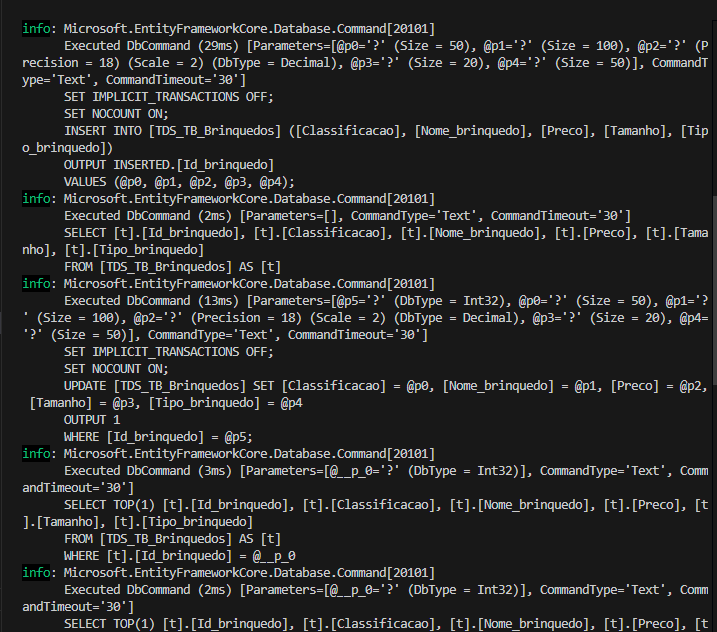
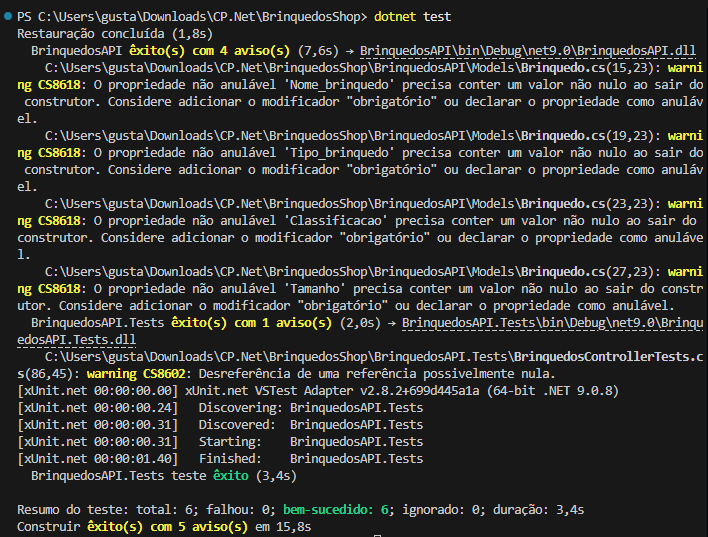
fix print

diff --git a/BrinquedosAPI.Tests/obj/Debug/net9.0/BrinquedosAPI.Tests.AssemblyInfo.cs b/BrinquedosAPI.Tests/obj/Debug/net9.0/BrinquedosAPI.Tests.AssemblyInfo.cs
@@ -13,7 +13,7 @@ using System.Reflection;
 [assembly: System.Reflection.AssemblyCompanyAttribute("BrinquedosAPI.Tests")]
 [assembly: System.Reflection.AssemblyConfigurationAttribute("Debug")]
 [assembly: System.Reflection.AssemblyFileVersionAttribute("1.0.0.0")]
-[assembly: System.Reflection.AssemblyInformationalVersionAttribute("1.0.0")]
+[assembly: System.Reflection.AssemblyInformationalVersionAttribute("1.0.0+ce3462ecafee570445fa9a734b343afa3f4d141d")]
 [assembly: System.Reflection.AssemblyProductAttribute("BrinquedosAPI.Tests")]
 [assembly: System.Reflection.AssemblyTitleAttribute("BrinquedosAPI.Tests")]
 [assembly: System.Reflection.AssemblyVersionAttribute("1.0.0.0")]

diff --git a/BrinquedosAPI/obj/Debug/net9.0/BrinquedosAPI.AssemblyInfo.cs b/BrinquedosAPI/obj/Debug/net9.0/BrinquedosAPI.AssemblyInfo.cs
@@ -13,7 +13,7 @@ using System.Reflection;
 [assembly: System.Reflection.AssemblyCompanyAttribute("BrinquedosAPI")]
 [assembly: System.Reflection.AssemblyConfigurationAttribute("Debug")]
 [assembly: System.Reflection.AssemblyFileVersionAttribute("1.0.0.0")]
-[assembly: System.Reflection.AssemblyInformationalVersionAttribute("1.0.0")]
+[assembly: System.Reflection.AssemblyInformationalVersionAttribute("1.0.0+ce3462ecafee570445fa9a734b343afa3f4d141d")]
 [assembly: System.Reflection.AssemblyProductAttribute("BrinquedosAPI")]
 [assembly: System.Reflection.AssemblyTitleAttribute("BrinquedosAPI")]
 [assembly: System.Reflection.AssemblyVersionAttribute("1.0.0.0")]

diff --git a/ReadMe.md b/ReadMe.md
@@ -70,4 +70,3 @@ dotnet test
 
 ### Resultados dos Testes
 ![alt text](image-8.png)
-![alt text](image-9.png)